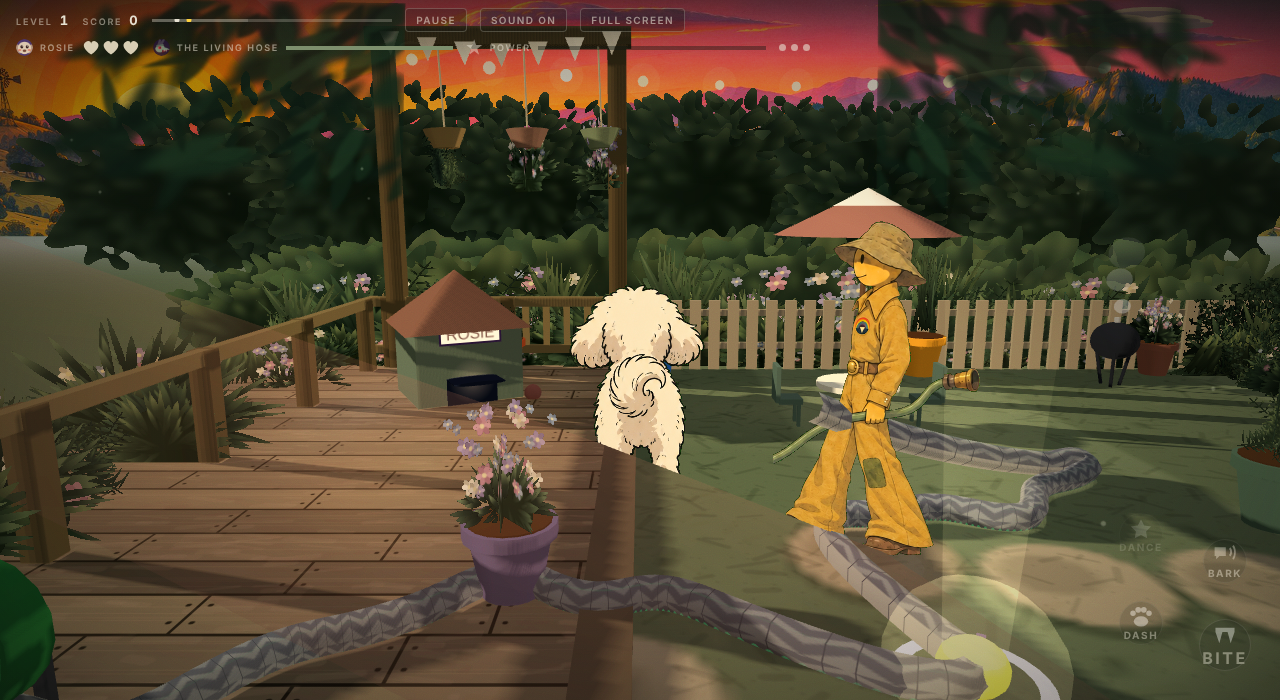
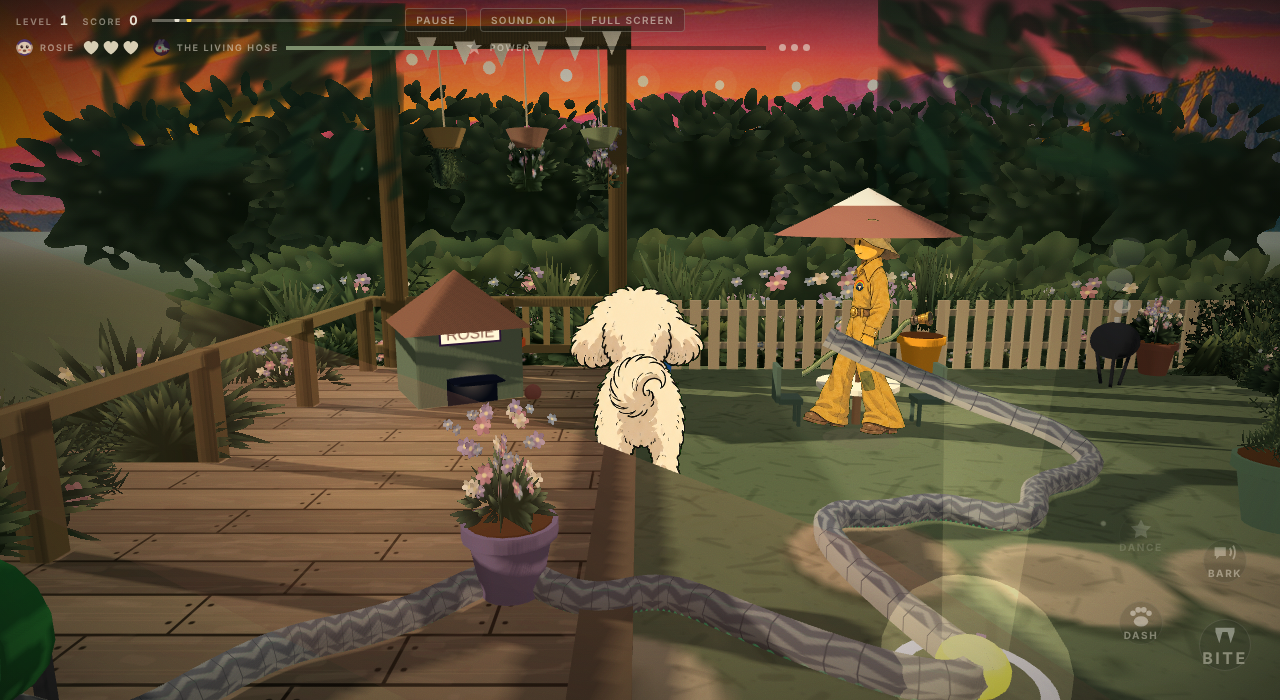
fix(art): size the backdrop past the frustum and match the sky to it
Reported: "it looks great until I notice there's obvious cutoffs in the
background where the picture ends." The painting was never too small — the
plane carrying it was. Widened 15000 -> 26000 and hung further back, so every
edge falls outside the frustum at any camera pan; distance costs nothing for a
flat image.

The second half of the seam was above the painting, where the authored grey-
green sky dome met a sunset. The dome and the scene background now take their
colour from the image's own top edge, sampled at load rather than hand-picked
so it tracks the art if the art is replaced. The damaged-world sky variants are
untouched, and a refused canvas read leaves the dome exactly as authored.

Evidence: production/qa/evidence/hz0..hz5.png

Claude-Session: https://claude.ai/code/session_01JR8fsw3Uh5kViP8MJWMfnz

diff --git a/src/index.html b/src/index.html
@@ -1840,7 +1840,11 @@ for(let i=_bd0;i<scene.children.length;i++)scene.children[i].userData.bd3d=true;
  new THREE.TextureLoader().load('art/backdrop.jpg',tx=>{
   tx.encoding=THREE.sRGBEncoding;tx.minFilter=THREE.LinearFilter;tx.magFilter=THREE.LinearFilter;
   tx.generateMipmaps=false;tx.anisotropy=4;tx.wrapS=tx.wrapT=THREE.ClampToEdgeWrapping;
-  const asp=(tx.image&&tx.image.width)?tx.image.width/tx.image.height:3,W=15000,H=W/asp;
+  /* W was 15000, which left the plane's own edges inside the view -- reported as "obvious
+     cutoffs in the background where the picture ends". The painting is not too small; the
+     surface carrying it was. At 26000 across, hung further back, every edge falls outside the
+     frustum at any camera pan, and the extra distance costs nothing because it is a flat image. */
+  const asp=(tx.image&&tx.image.width)?tx.image.width/tx.image.height:3,W=26000,H=W/asp;
   const bd=new THREE.Mesh(new THREE.PlaneGeometry(W,H),
     new THREE.MeshBasicMaterial({map:tx,depthWrite:false,fog:false,toneMapped:false}));
   /* renderOrder 1, NOT -1. The sky dome draws with depthWrite:false, so anything drawn before it
@@ -1848,7 +1852,20 @@ for(let i=_bd0;i<scene.children.length;i++)scene.children[i].userData.bd3d=true;
      sky and it vanished. Drawn after the dome it shows, and because it still depth-TESTS at its
      real distance, the deck, hedge and characters (renderOrder 0, drawn earlier with depth)
      correctly occlude it. */
-  bd.position.set(1600,H*0.06,-5600);bd.renderOrder=1;bd.frustumCulled=false;scene.add(bd);
+  bd.position.set(1600,-H*0.02,-7200);bd.renderOrder=1;bd.frustumCulled=false;scene.add(bd);
+  /* Match the sky dome to the painting's own sky, so where the plane ends there is no seam to
+     see. Sampled from the image's top edge rather than hand-picked, so it tracks the art if the
+     art changes. SKY[..][1] -- the damaged-world variants -- are left alone, and if the canvas
+     read is refused the dome simply keeps its authored colours. */
+  try{
+    const c=document.createElement('canvas');c.width=c.height=8;
+    const g2=c.getContext('2d');g2.drawImage(tx.image,0,0,tx.image.width,Math.round(tx.image.height*.08),0,0,8,8);
+    const d=g2.getImageData(0,0,8,8).data;let r=0,gg=0,b=0;
+    for(let i=0;i<64;i++){r+=d[i*4];gg+=d[i*4+1];b+=d[i*4+2];}
+    const col=new THREE.Color(r/64/255,gg/64/255,b/64/255);
+    SKY.top[0].copy(col).multiplyScalar(.82);SKY.mid[0].copy(col);
+    if(scene.background&&scene.background.copy)scene.background.copy(col);
+  }catch(e){}
   /* the 3D hills, tower and poplars step aside now that the painting is carrying the distance */
   scene.children.forEach(o=>{if(o.userData&&o.userData.bd3d)o.visible=false;});
   /* fog would grey out a painting that is meant to BE the haze, so push it past the backdrop */
